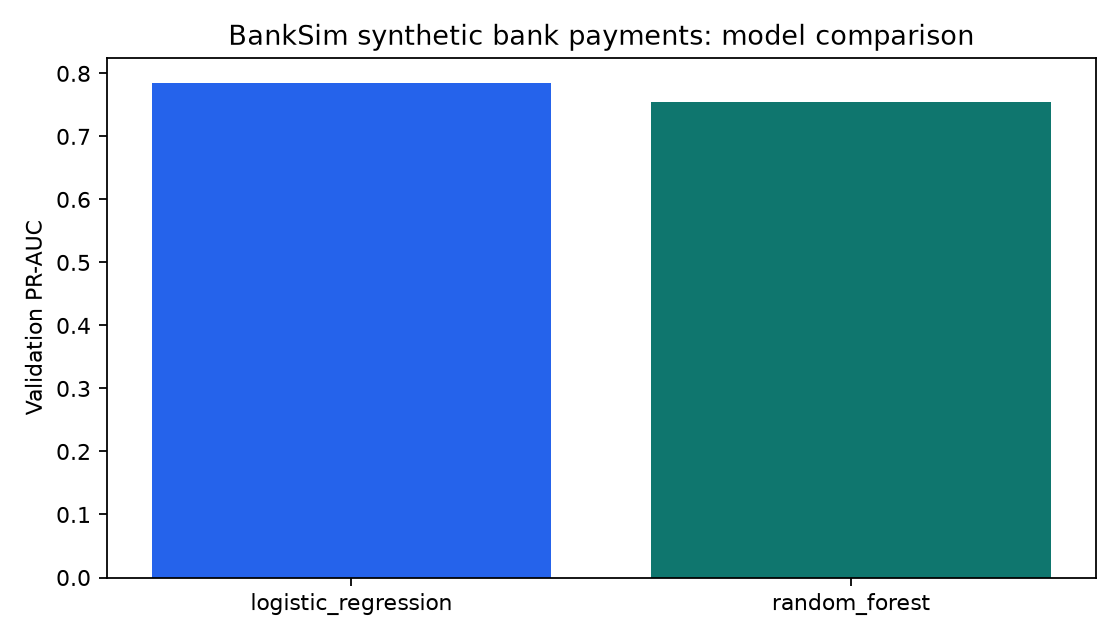
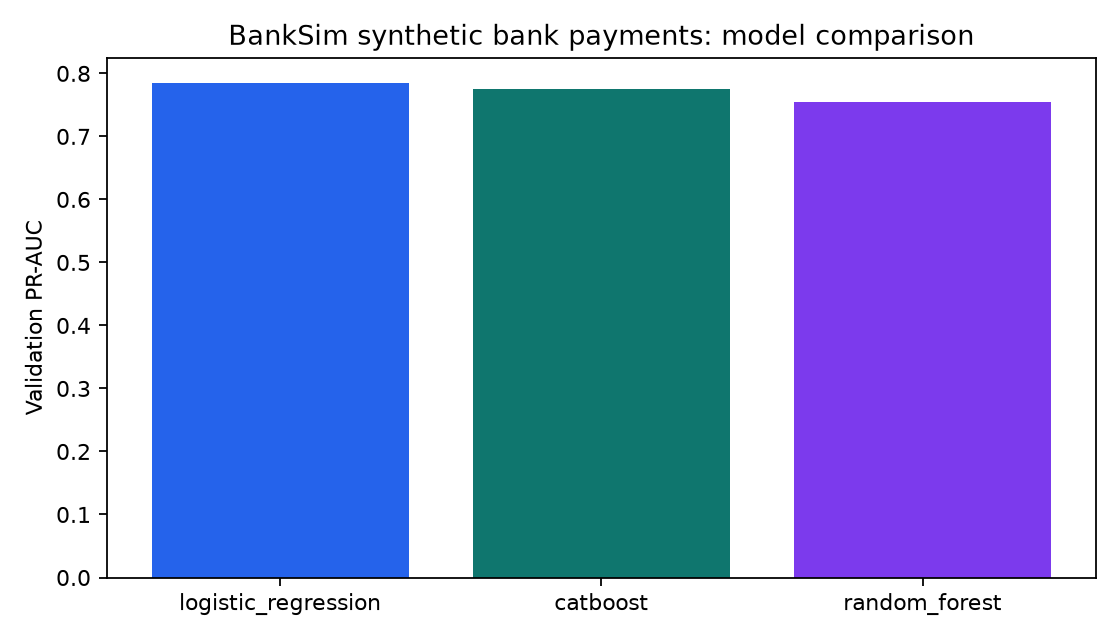
feat: compare CatBoost fraud classifier

diff --git a/src/fraudbench/training.py b/src/fraudbench/training.py
@@ -8,16 +8,24 @@ from pathlib import Path
 
 import joblib
 import pandas as pd
+from catboost import CatBoostClassifier
 from sklearn.compose import ColumnTransformer
 from sklearn.ensemble import RandomForestClassifier
 from sklearn.impute import SimpleImputer
 from sklearn.linear_model import LogisticRegression
 from sklearn.metrics import ConfusionMatrixDisplay, PrecisionRecallDisplay
 from sklearn.pipeline import Pipeline
-from sklearn.preprocessing import OneHotEncoder, StandardScaler
+from sklearn.preprocessing import FunctionTransformer, OneHotEncoder, StandardScaler
 
 from .config import PROJECT_ROOT, load_config
-from .data import CATEGORICAL_COLUMNS, MODEL_COLUMNS, NUMERIC_COLUMNS, load_splits, profile
+from .data import (
+    CATEGORICAL_COLUMNS,
+    MODEL_COLUMNS,
+    NUMERIC_COLUMNS,
+    load_splits,
+    prepare_catboost_frame,
+    profile,
+)
 from .metrics import best_f1_threshold, binary_metrics
 
 
@@ -69,6 +77,26 @@ def candidate_models(config: dict) -> dict[str, Pipeline]:
                 ),
             ]
         ),
+        "catboost": Pipeline(
+            [
+                ("prepare", FunctionTransformer(prepare_catboost_frame, validate=False)),
+                (
+                    "classifier",
+                    CatBoostClassifier(
+                        iterations=int(config["catboost_iterations"]),
+                        depth=int(config["catboost_depth"]),
+                        learning_rate=float(config["catboost_learning_rate"]),
+                        loss_function="Logloss",
+                        eval_metric="PRAUC",
+                        auto_class_weights="Balanced",
+                        random_seed=seed,
+                        thread_count=4,
+                        allow_writing_files=False,
+                        verbose=False,
+                    ),
+                ),
+            ]
+        ),
     }
 
 
@@ -101,7 +129,9 @@ def save_plots(comparison, validation, validation_scores, test, test_score, thre
     output = PROJECT_ROOT / "outputs"
     output.mkdir(exist_ok=True)
     figure, axis = plt.subplots(figsize=(7, 4))
-    axis.bar(comparison["model"], comparison["pr_auc"], color=["#2563eb", "#0f766e"])
+    axis.bar(
+        comparison["model"], comparison["pr_auc"], color=["#2563eb", "#0f766e", "#7c3aed"]
+    )
     axis.set_ylabel("Validation PR-AUC")
     axis.set_title(f"{title}: model comparison")
     figure.tight_layout()
@@ -147,7 +177,10 @@ def train(config_path: str | Path) -> dict:
     validation_x, validation_y = splits["validation"]
     fitted, validation_scores, thresholds, rows = {}, {}, {}, []
     for name, model in candidate_models(config).items():
-        model.fit(train_x, train_y)
+        fit_params = (
+            {"classifier__cat_features": CATEGORICAL_COLUMNS} if name == "catboost" else {}
+        )
+        model.fit(train_x, train_y, **fit_params)
         score = model.predict_proba(validation_x)[:, 1]
         threshold = best_f1_threshold(validation_y.to_numpy(), score)
         metrics = binary_metrics(validation_y, score, threshold)
@@ -161,9 +194,13 @@ def train(config_path: str | Path) -> dict:
     test_metrics = binary_metrics(test_y, test_score, threshold)
 
     production = candidate_models(config)[winner]
+    production_fit_params = (
+        {"classifier__cat_features": CATEGORICAL_COLUMNS} if winner == "catboost" else {}
+    )
     production.fit(
         pd.concat([train_x, validation_x], ignore_index=True),
         pd.concat([train_y, validation_y], ignore_index=True),
+        **production_fit_params,
     )
     bundle = {
         "model": production,

diff --git a/src/fraudbench/data.py b/src/fraudbench/data.py
@@ -10,6 +10,13 @@ TARGET = "fraud"
 NUMERIC_COLUMNS = ["step", "amount"]
 CATEGORICAL_COLUMNS = ["age", "gender", "category"]
 MODEL_COLUMNS = NUMERIC_COLUMNS + CATEGORICAL_COLUMNS
+
+
+def prepare_catboost_frame(frame: pd.DataFrame) -> pd.DataFrame:
+    prepared = frame[MODEL_COLUMNS].copy()
+    for column in CATEGORICAL_COLUMNS:
+        prepared[column] = prepared[column].astype("string").fillna("__MISSING__").astype(str)
+    return prepared
 READ_COLUMNS = ["step", "age", "gender", "category", "amount", TARGET]
 
 

diff --git a/README.md b/README.md
@@ -1,6 +1,8 @@
 # BankSim Synthetic Payment Fraud ML
 
-Standalone PyCharm project for the BankSim agent-based bank-payment dataset. It compares class-weighted logistic regression and random forest models using a chronological train/validation/test split.
+Standalone PyCharm project for the BankSim agent-based bank-payment dataset. It compares class-weighted
+logistic regression, random forest, and CatBoost using a chronological train/validation/test split.
+CatBoost keeps the dataset's categorical fields native instead of one-hot expanding them.
 
 ## Dataset
 
@@ -59,6 +61,8 @@ E. A. López-Rojas and S. Axelsson, “BankSim: A Bank Payment Simulation for Fr
 ## Current trained result
 
 Logistic regression was selected. On the latest 50,000-row simulation-period sample it achieved PR-AUC **0.7716**, ROC-AUC **0.9923**, precision **0.8757**, recall **0.5870**, and F1 **0.7029**. See [`outputs/metrics.json`](outputs/metrics.json) and [`outputs/model_comparison.csv`](outputs/model_comparison.csv).
+CatBoost was evaluated as a third candidate, but its validation PR-AUC (**0.7753**) did not exceed logistic
+regression (**0.7850**), so it was not selected.
 
 ![BankSim model comparison](outputs/model_comparison.png)
 
